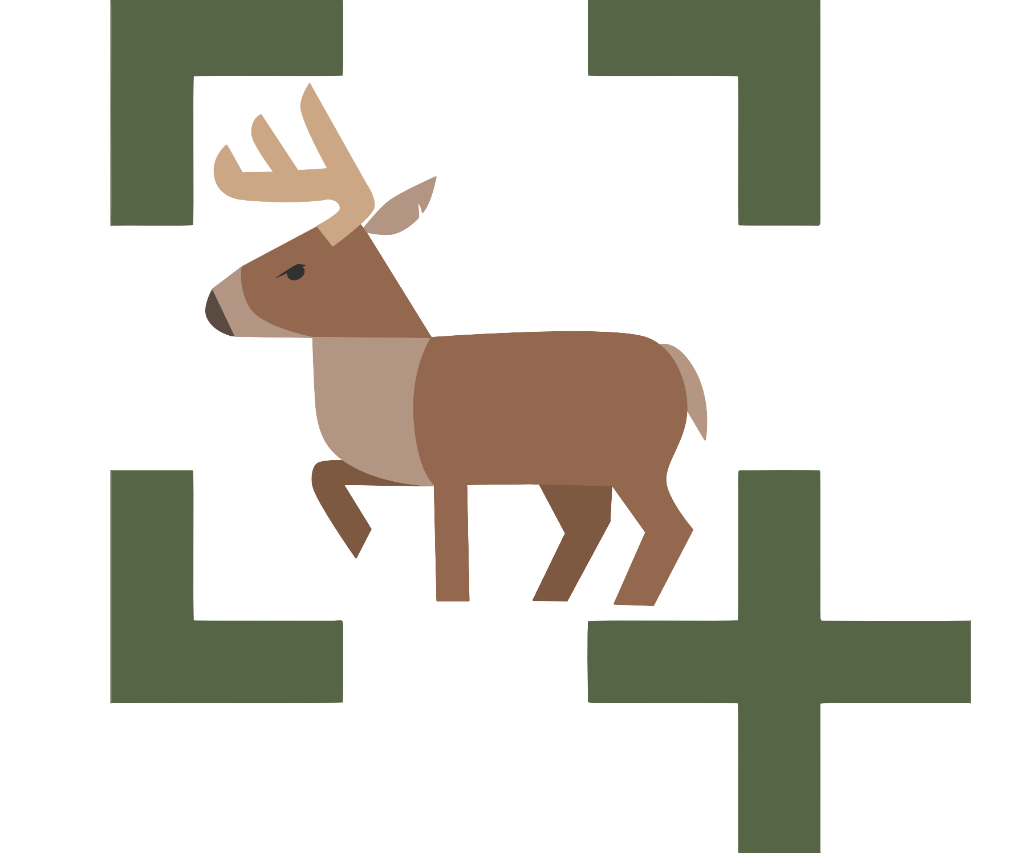
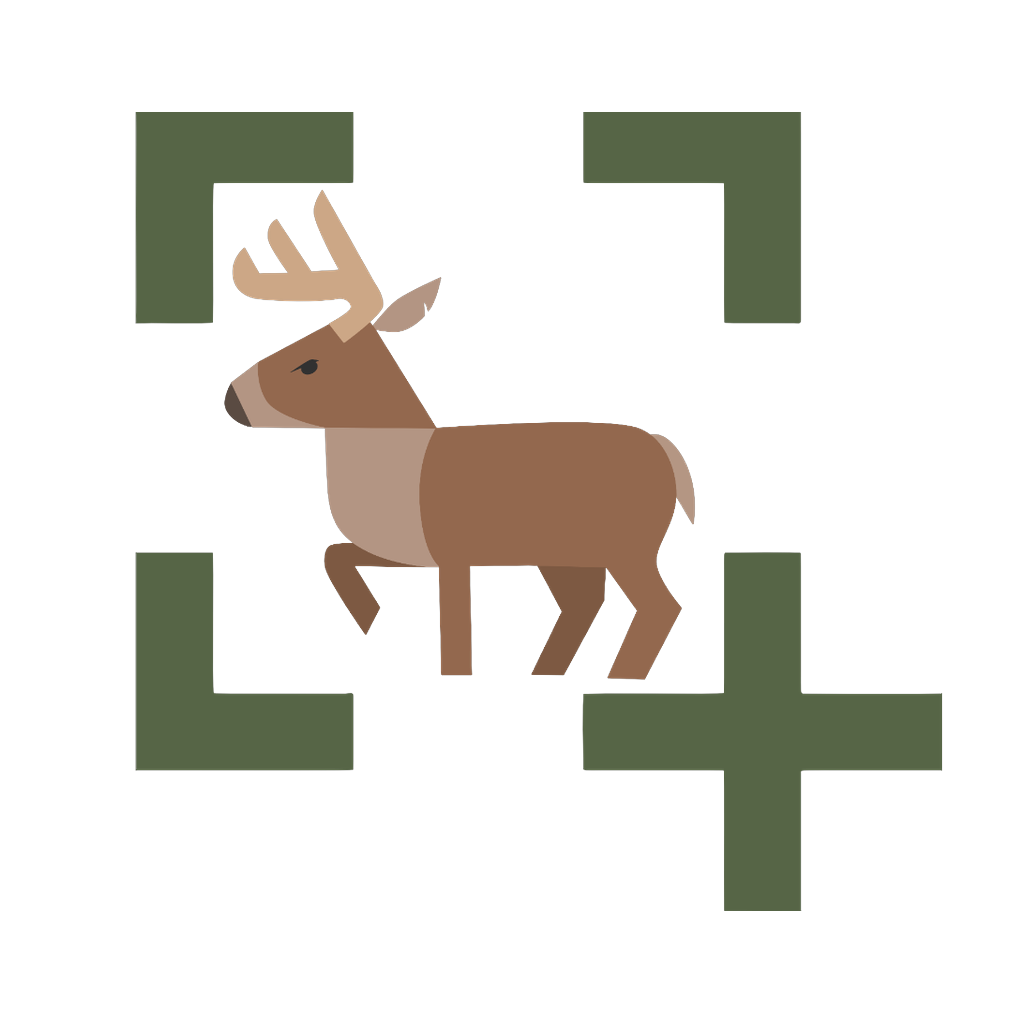
chore(release): v1.0.0 - DeerPrint com icones renovados e novo instalador

diff --git a/scripts/publish-tag.js b/scripts/publish-tag.js
@@ -86,7 +86,7 @@ function proceedWithVersion(version) {
     console.log(`🎉 SUCESSO! A tag ${tagName} foi enviada para o GitHub!`);
     console.log('O GitHub Actions já começou a compilar e publicar a versão na nuvem.');
     console.log('Acompanhe o progresso em:');
-    console.log(`https://github.com/${packageJson.build?.publish?.owner || 'Fulviotanure'}/${packageJson.build?.publish?.repo || 'screenshotmark'}/actions`);
+    console.log(`https://github.com/${packageJson.build?.publish?.owner || 'Fulviotanure'}/${packageJson.build?.publish?.repo || 'deerprint'}/actions`);
     console.log('=============================================================\n');
   } catch (err) {
     console.error('\n❌ Erro durante o processo do Git:', err.message);

diff --git a/scripts/build.js b/scripts/build.js
@@ -3,7 +3,7 @@ const fs = require('fs');
 const path = require('path');
 const os = require('os');
 
-const tempOutDir = path.join(os.tmpdir(), 'screenshotmark-build-' + Date.now());
+const tempOutDir = path.join(os.tmpdir(), 'deerprint-build-' + Date.now());
 const finalDistDir = path.join(__dirname, '../dist');
 const oldVersionsDir = path.join(finalDistDir, 'versoes_antigas');
 

diff --git a/CHANGELOG.md b/CHANGELOG.md
@@ -4,8 +4,18 @@ Todas as mudanças e lançamentos notáveis do **DeerPrint** são documentados n
 
 ---
 
-## [2.1.2] - 2026-08-29
-### 🦌 Grande Reformulação de Marca & Design System
+## [1.0.0] - 2026-08-29
+### 🦌 Lançamento Oficial DeerPrint v1.0.0 & Ícones Renovados
+- **Ícones Oficiais Renovados**:
+  - Geração de novo `icon.ico` multi-resolução para Windows (16x16 até 256x256) aplicado ao executável, atalho na área de trabalho e instalador.
+  - Ícone de alta definição `icon.png` (1024x1024) com proporções equilibradas e fundo transparente.
+  - Ícone da bandeja de notificações (`tray-icon.png`) renovado e otimizado para o sistema de tarefas do Windows.
+- **Identidade DeerPrint**:
+  - Novo aplicativo de captura de alta precisão com suporte a anotações vetoriais, zoom loupe e desfoque tipo vidro fosco (glass blur).
+  - Design System Sylvan Core (Dark & Light) com tipografia Manrope & Work Sans.
+- **Instalador & Atualização Automática**:
+  - Compilação do instalador interativo NSIS `DeerPrint-Setup-1.0.0.exe`.
+  - Integração contínua e distribuição automatizada com GitHub Actions e GitHub Releases.
 - **Novo Nome Oficial**: Transição completa da identidade do aplicativo para **DeerPrint** (`deerprint`).
 - **Novo Logotipo**: Ícone e ilustrações do cervo com retículo de precisão verde-oliva aplicados no cabeçalho e na tela inicial do editor.
 - **Design System Sylvan Core**:
